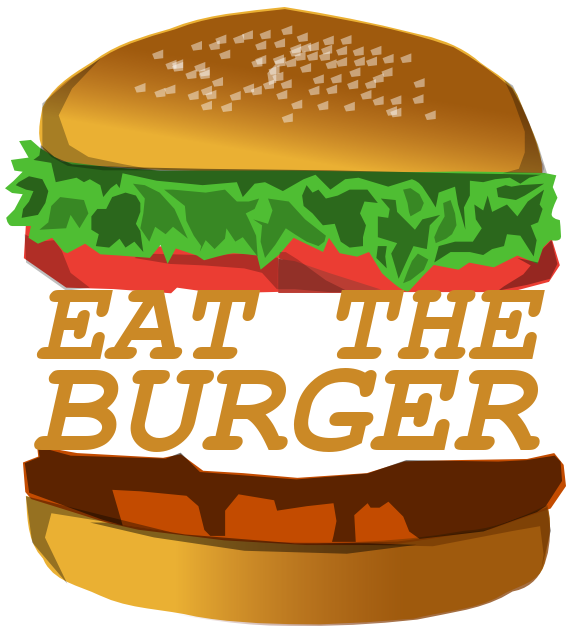
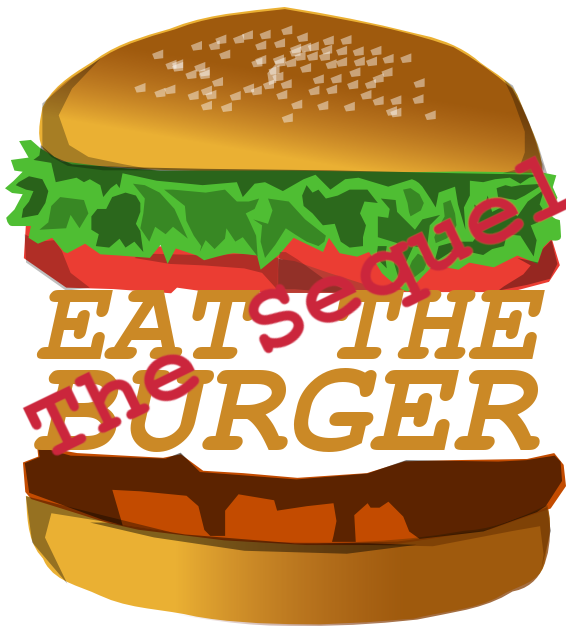
final

Changed region(s): [[0.4205, 0.2492, 1.0, 0.5607], [0.03, 0.5296, 0.3604, 0.7165]]

diff --git a/public/assets/js/burgers_layout.js b/public/assets/js/burgers_layout.js
@@ -1,27 +1,37 @@
 $(function() {
     $(".delBurger").on("click", function(event) {
+        var cust = $(this).attr("data-id");
+        var customer = $("#"+cust + "cust").val().trim();
+        console.log(customer);
+        if (customer.length === 0) {
+            alert("Please enter a valid name before devouring!");
+        }
+        else{
         var id = $(this).data("id");
-        console.log(id);
+      
         var newDevoured = $(this).data("devoured");
 
+        var newCust = { cust_name: customer };
 
-        var newDevouredState = {
-            devoured: newDevoured
-        };
-
-        $.ajax("/api/burgers/" + id, {
-          type: "PUT",
-          data: newDevouredState
-        }).then(
-            function() {
-                console.log("changed devoured to", newDevoured);
-                location.reload();
-            }
-        );
+        $.ajax("/api/cust", {
+            type: "POST",
+            data: newCust
+          }).then(
+              function(result) {
+                  var custIdSend = { custId: result.id};
+                  $.ajax("/api/burgers/" + id, {
+                    type: "PUT",
+                    data: custIdSend
+                  }).then(
+                      function() {
+                          location.reload();
+                      });
+              });
+     
+        }
     });
     $(".create-form").on("submit", function(event) {
         event.preventDefault();
-        console.log($("#burg").val().trim());
         var newBurger = {
             name: $("#burg").val().trim(),
             devoured: 0
@@ -32,7 +42,6 @@ $(function() {
             data: newBurger
         }).then(
             function() {
-                console.log("created new burger");
                 location.reload();
             }
         );

diff --git a/controllers/burgers_controllers.js b/controllers/burgers_controllers.js
@@ -5,11 +5,10 @@ module.exports = function(app) {
 
 
     app.get("/", function(req, res) {
-        db.Burgers.findAll({}).then(function(data) {
+        db.Burgers.findAll({include: [ db.Customer ] }).then(function(data) {
             var allBurgers = {
                 burgers: data
             };
-            console.log(allBurgers);
             res.render("index", allBurgers);
         });
     });
@@ -23,14 +22,26 @@ module.exports = function(app) {
         });
     });
 
-    app.put("/api/burgers/:id", function(req, res) {
-        var condition = "id = " + req.params.id;
+    app.post("/api/cust", function(req, res) {
+        console.log("this is customer " + req.body.cust_name);
+        db.Customer.create(
+            {
+            cust_name: req.body.cust_name
+            }      
+        ).then(function(result) {
+        res.json(result);
+        });
+    });
 
-        console.log("condition", condition);
+    app.put("/api/burgers/:id", function(req, res) {
+       console.log("id = " + req.params.id);
+
+        console.log("custID: ", req.body.custId);
 
         db.Burgers.update(
             {
-                devoured: true
+                devoured: true,
+                CustomerId: req.body.custId
             },
             {
             where: {id: req.params.id}

diff --git a/public/assets/css/css.css b/public/assets/css/css.css
@@ -67,18 +67,29 @@ body {
       margin: 0 auto;
   }
 
-  .delBurger {
-    position: relative;
-    bottom: 60px;
-    
-  }
+
 
   .eatBurger {
       height: 90px;
       width: 105px;
   }
+.delBurger {
+  position: relative;
+  bottom: 60px;
+}
 
-  .usedWrapper {
-      position: relative;
-      bottom: 14px;
-  }
+.custName {
+  position: relative;
+  bottom: 40px;
+}
+
+.ateBy {
+  color: red;
+  position: relative;
+  bottom: 80px;
+  transform: rotate(20deg);
+  text-shadow: 1px 1px black;
+}
+
+
+  

diff --git a/models/burgers.js b/models/burgers.js
@@ -7,6 +7,14 @@ module.exports = function(sequelize, Sequelize) {
             type: Sequelize.BOOLEAN, default:false 
         }
     });
+
+    Burgers.associate = function(models) {
+        Burgers.belongsTo(models.Customer, {
+            foreignKey: {
+                allowNull: true
+            }
+        });
+    };;
     
 
     

diff --git a/models/customer.js b/models/customer.js
@@ -1,0 +1,11 @@
+module.exports = function(sequelize, Sequelize) {
+    var Customer = sequelize.define("Customer", {
+        cust_name: Sequelize.STRING
+    });
+    Customer.associate = function (models) {
+        Customer.hasMany(models.Burgers, {
+        });
+    };
+
+    return Customer;
+};
